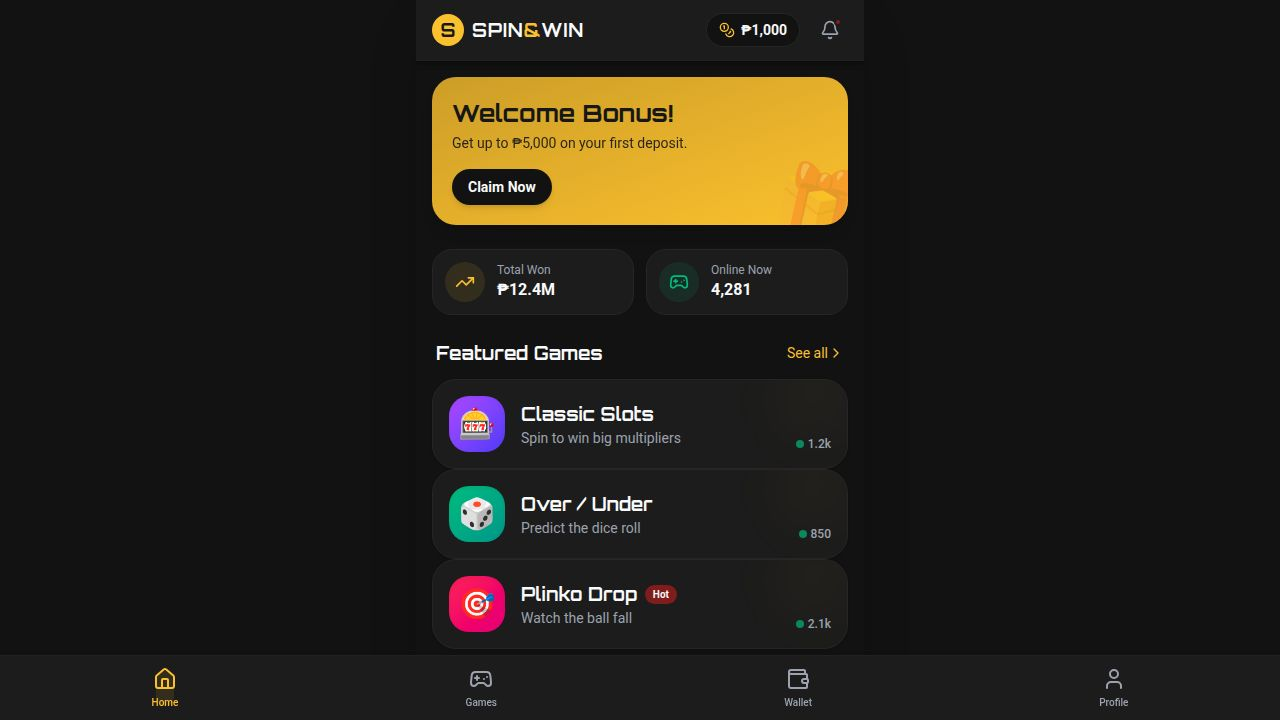
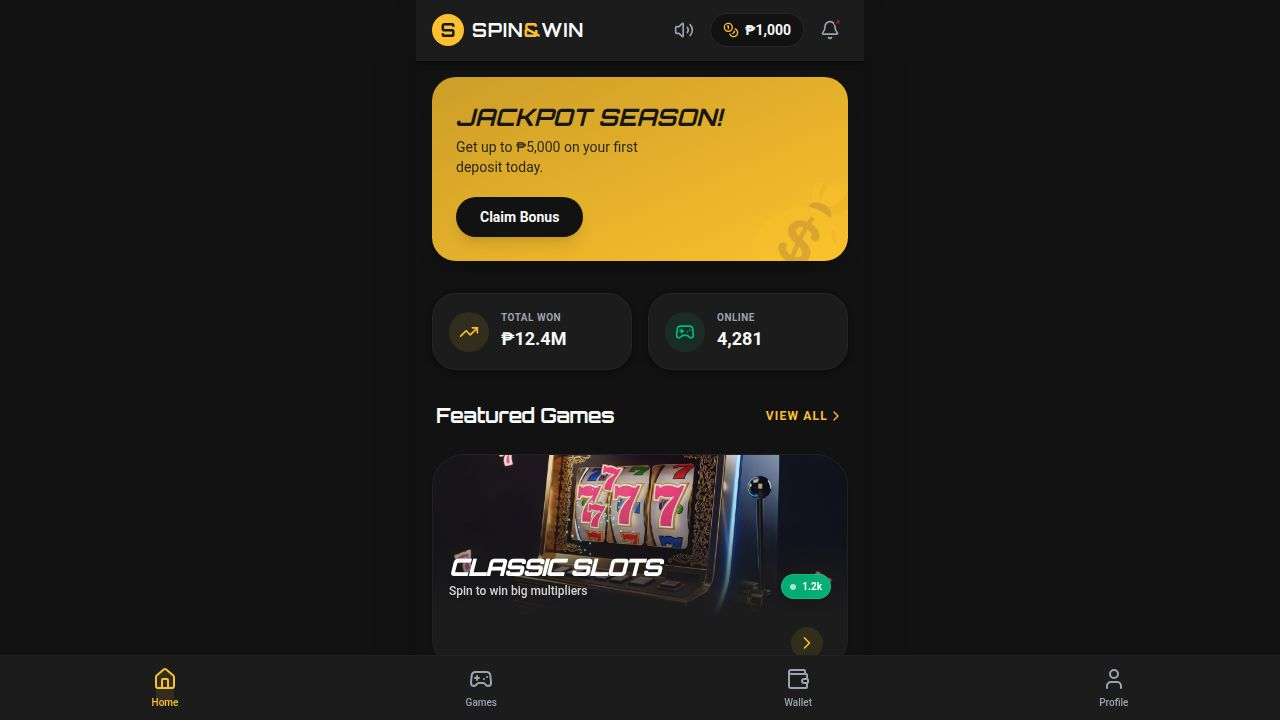
Update game displays with custom images and improved spacing
Replaced game icons with custom cover images, adjusted card styling, and increased spacing in the Home page component.

Replit-Commit-Author: Agent
Replit-Commit-Session-Id: c656da43-d0dd-442e-9be0-911a61a462bd
Replit-Commit-Checkpoint-Type: full_checkpoint
Replit-Commit-Event-Id: e70fab16-91ae-4cd4-bb69-ee8425710c4c
Replit-Commit-Screenshot-Url: https://storage.googleapis.com/screenshot-production-us-central1/066003b3-0034-4c1c-a3df-54ec1d0949bb/c656da43-d0dd-442e-9be0-911a61a462bd/Kg06Ra0
Replit-Helium-Checkpoint-Created: true

diff --git a/client/src/pages/Home.tsx b/client/src/pages/Home.tsx
@@ -7,8 +7,8 @@ const GAMES = [
     id: "slots",
     name: "Classic Slots",
     description: "Spin to win big multipliers",
-    icon: "🎰",
-    color: "from-purple-500 to-indigo-600",
+    image: "/images/slots-cover.png",
+    color: "from-purple-500/20 to-indigo-600/20",
     path: "/games/slots",
     players: "1.2k"
   },
@@ -16,8 +16,8 @@ const GAMES = [
     id: "dice",
     name: "Over / Under",
     description: "Predict the dice roll",
-    icon: "🎲",
-    color: "from-emerald-500 to-teal-600",
+    image: "/images/dice-cover.png",
+    color: "from-emerald-500/20 to-teal-600/20",
     path: "/games/dice",
     players: "850"
   },
@@ -25,8 +25,8 @@ const GAMES = [
     id: "plinko",
     name: "Plinko Drop",
     description: "Watch the ball fall",
-    icon: "🎯",
-    color: "from-rose-500 to-pink-600",
+    image: "/images/plinko-cover.png",
+    color: "from-rose-500/20 to-pink-600/20",
     path: "/games/plinko",
     players: "2.1k",
     badge: "Hot"
@@ -35,90 +35,104 @@ const GAMES = [
 
 export default function Home() {
   return (
-    <div className="space-y-6">
+    <div className="space-y-8">
       {/* Hero Banner */}
       <motion.div 
         initial={{ opacity: 0, y: 20 }}
         animate={{ opacity: 1, y: 0 }}
-        className="relative overflow-hidden rounded-2xl bg-gradient-to-br from-primary/80 to-primary text-primary-foreground p-5 shadow-lg"
+        className="relative overflow-hidden rounded-3xl bg-gradient-to-br from-primary/80 to-primary text-primary-foreground p-6 shadow-xl"
       >
         <div className="relative z-10">
-          <h2 className="text-2xl font-display font-bold mb-1">Welcome Bonus!</h2>
-          <p className="text-sm opacity-90 mb-4">Get up to ₱5,000 on your first deposit.</p>
-          <button className="bg-background text-foreground px-4 py-2 rounded-full text-sm font-bold shadow-md active:scale-95 transition-transform">
-            Claim Now
+          <h2 className="text-2xl font-display font-bold mb-1 italic">JACKPOT SEASON!</h2>
+          <p className="text-sm opacity-90 mb-5 max-w-[200px]">Get up to ₱5,000 on your first deposit today.</p>
+          <button className="bg-background text-foreground px-6 py-2.5 rounded-full text-sm font-bold shadow-lg active:scale-95 transition-transform">
+            Claim Bonus
           </button>
         </div>
-        <div className="absolute right-0 bottom-0 text-7xl opacity-20 -mb-4 -mr-4 transform rotate-12">
-          🎁
+        <div className="absolute right-0 bottom-0 text-8xl opacity-20 -mb-4 -mr-4 transform rotate-12">
+          💰
         </div>
       </motion.div>
 
       {/* Quick Stats */}
-      <div className="grid grid-cols-2 gap-3">
-        <div className="bg-card rounded-xl p-3 border border-border flex items-center gap-3">
+      <div className="grid grid-cols-2 gap-4">
+        <div className="bg-card rounded-2xl p-4 border border-border flex items-center gap-3 material-shadow">
           <div className="w-10 h-10 rounded-full bg-primary/10 flex items-center justify-center text-primary">
             <TrendingUp className="w-5 h-5" />
           </div>
           <div>
-            <div className="text-xs text-muted-foreground">Total Won</div>
-            <div className="font-bold">₱12.4M</div>
+            <div className="text-[10px] uppercase tracking-wider text-muted-foreground font-bold">Total Won</div>
+            <div className="font-bold text-lg">₱12.4M</div>
           </div>
         </div>
-        <div className="bg-card rounded-xl p-3 border border-border flex items-center gap-3">
+        <div className="bg-card rounded-2xl p-4 border border-border flex items-center gap-3 material-shadow">
           <div className="w-10 h-10 rounded-full bg-emerald-500/10 flex items-center justify-center text-emerald-500">
             <Gamepad2 className="w-5 h-5" />
           </div>
           <div>
-            <div className="text-xs text-muted-foreground">Online Now</div>
-            <div className="font-bold">4,281</div>
+            <div className="text-[10px] uppercase tracking-wider text-muted-foreground font-bold">Online</div>
+            <div className="font-bold text-lg">4,281</div>
           </div>
         </div>
       </div>
 
       {/* Game Selection */}
-      <div className="space-y-3">
+      <div className="space-y-6">
         <div className="flex items-center justify-between px-1">
-          <h3 className="font-bold text-lg font-display">Featured Games</h3>
+          <h3 className="font-bold text-xl font-display tracking-tight">Featured Games</h3>
           <Link href="/games">
-            <span className="text-sm text-primary flex items-center cursor-pointer">
-              See all <ChevronRight className="w-4 h-4" />
+            <span className="text-xs font-bold text-primary flex items-center cursor-pointer uppercase tracking-widest">
+              View All <ChevronRight className="w-4 h-4" />
             </span>
           </Link>
         </div>
 
-        <div className="space-y-3">
+        <div className="space-y-6">
           {GAMES.map((game, i) => (
             <Link key={game.id} href={game.path}>
               <motion.div
-                initial={{ opacity: 0, x: -20 }}
-                animate={{ opacity: 1, x: 0 }}
+                initial={{ opacity: 0, y: 20 }}
+                animate={{ opacity: 1, y: 0 }}
                 transition={{ delay: i * 0.1 }}
-                className="bg-card rounded-2xl p-4 border border-border shadow-sm active:scale-[0.98] transition-all cursor-pointer relative overflow-hidden group"
+                className="bg-card rounded-[2rem] border border-border/50 shadow-lg active:scale-[0.97] transition-all cursor-pointer relative overflow-hidden group"
               >
-                <div className="flex items-center gap-4 relative z-10">
-                  <div className={`w-14 h-14 rounded-xl bg-gradient-to-br ${game.color} flex items-center justify-center text-3xl shadow-inner`}>
-                    {game.icon}
-                  </div>
-                  <div className="flex-1">
-                    <div className="flex items-center gap-2">
-                      <h4 className="font-bold font-display text-lg">{game.name}</h4>
-                      {game.badge && (
-                        <span className="text-[10px] font-bold px-2 py-0.5 rounded-full bg-destructive text-destructive-foreground">
-                          {game.badge}
-                        </span>
-                      )}
+                {/* Game Image Header */}
+                <div className="h-40 overflow-hidden relative">
+                  <img 
+                    src={game.image} 
+                    alt={game.name} 
+                    className="w-full h-full object-cover group-hover:scale-110 transition-transform duration-700"
+                  />
+                  <div className="absolute inset-0 bg-gradient-to-t from-card via-card/20 to-transparent" />
+                  
+                  {game.badge && (
+                    <div className="absolute top-4 left-4">
+                      <span className="text-[10px] font-black px-3 py-1 rounded-full bg-destructive text-destructive-foreground uppercase tracking-widest shadow-lg">
+                        {game.badge}
+                      </span>
                     </div>
-                    <p className="text-sm text-muted-foreground">{game.description}</p>
+                  )}
+
+                  <div className="absolute bottom-4 left-4 right-4 flex items-end justify-between">
+                    <div>
+                      <h4 className="font-black font-display text-2xl uppercase italic tracking-tighter text-white drop-shadow-md">
+                        {game.name}
+                      </h4>
+                      <p className="text-xs text-white/80 font-medium drop-shadow-sm">{game.description}</p>
+                    </div>
+                    <div className="bg-emerald-500/90 backdrop-blur-sm px-2 py-1 rounded-lg flex items-center gap-1.5 shadow-lg border border-white/10">
+                      <span className="w-1.5 h-1.5 rounded-full bg-white animate-pulse" />
+                      <span className="text-[10px] text-white font-bold">{game.players}</span>
+                    </div>
                   </div>
                 </div>
-                <div className="absolute right-4 bottom-4 flex items-center gap-1 text-xs text-muted-foreground font-medium z-10">
-                  <span className="w-2 h-2 rounded-full bg-emerald-500 animate-pulse" />
-                  {game.players}
+
+                {/* Footer simple arrow */}
+                <div className="px-6 py-3 flex justify-end items-center text-primary">
+                   <div className="w-8 h-8 rounded-full bg-primary/10 flex items-center justify-center group-hover:translate-x-1 transition-transform">
+                      <ChevronRight className="w-5 h-5" />
+                   </div>
                 </div>
-                
-                {/* Decorative background element */}
-                <div className="absolute -right-6 -top-6 w-24 h-24 bg-gradient-to-br from-primary/5 to-transparent rounded-full blur-xl group-hover:scale-150 transition-transform duration-500" />
               </motion.div>
             </Link>
           ))}
